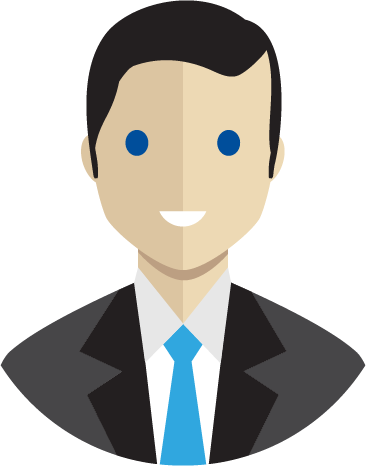
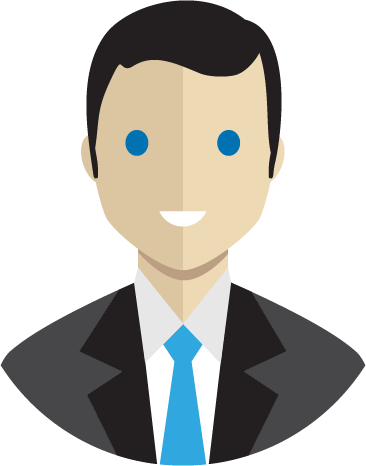
changed resume images...

diff --git a/assets/scss/style.scss b/assets/scss/style.scss
@@ -195,51 +195,51 @@ body {
 
         h2 {
           color: #ffffff;
+          margin: 70px 0 20px 0;
         }
-        
+
         p {
           color: #ffffff;
           font-size: 1.1rem;
           font-weight: 200;
-          margin: 20px 40px;
-
-          &:first-of-type {
-            margin-top: 170px;
-          }
+          margin: 20px 0;
         }
       } // .bio
 
+      h2 {
+          color: #ffffff;
+          margin: 70px 0 20px 0;
+        }
+
       .resume-grid {
         display: grid;
-        grid-template-columns: repeat(auto-fill, minmax(300px, 1fr));
-        grid-auto-rows: minmax(300px, auto);
+        // grid-template-columns: repeat(auto-fill, minmax(300px, 1fr));
+        // grid-auto-rows: minmax(300px, auto);
+        grid-template-columns: repeat(12, 1fr);
         grid-gap: 20px;
-        align-items: stretch;
+        // align-items: stretch;
 
         .fancy {
-          width: 200px;
-          height: 200px;
-          background-color: #ffffff;
-          position: relative;
-          border-radius: 50%;
+          grid-column: span 6;
 
           .toon {
-            width: 100%l
+            width: 100%;
           }
 
           a {
             color: #ffffff;
             text-decoration: none;
+            transition: 300ms ease all;
 
             &:hover {
               color: #3f90ce;
+              transition: 300ms ease all;
             }
           }
         }
 
         .no-fancy {
-          width: 200px;
-          height: 200px;
+          grid-column: span 6;
 
           p {
             color: #ffffff;
@@ -248,12 +248,19 @@ body {
             margin: 20px 40px;
           }
 
+          .toon {
+            width: 100%;
+            padding-top: 20px;
+          }
+
           a {
             color: #ffffff;
             text-decoration: none;
+            transition: 300ms ease all;
 
             &:hover {
               color: #3f90ce;
+              transition: 300ms ease all;
             }
           }
         }
@@ -430,6 +437,25 @@ body {
 .tc-image-caption2 .link-wrap a:hover {background-color: rgba(255,255,255,0.8);color: #444;}
 
 
+@media ( max-width: 520px ) {
+
+  .container {
+    .main {
+      .resume-grid {
+
+        .fancy {
+          grid-column: span 12;
+        }
+
+        .no-fancy {
+          grid-column: span 12;
+        }
+      }
+    }
+  }
+}
+
+
 
 @media ( max-width: 1135px ) {
 
@@ -456,11 +482,6 @@ body {
           font-weight: bolder;
           text-decoration: none;
           flex: auto;
-
-          &:hover {
-            color: #3f90ce;
-            cursor: pointer;
-          }
         }
 
         ul {
@@ -480,9 +501,11 @@ body {
               text-decoration: none;
               font-weight: bolder;
               font-size: 1.27rem;
+              transition: 300ms ease all;
 
               &:hover {
                 color: #3f90ce;
+                transition: 300ms ease all;
               }
             }
           }

diff --git a/assets/css/style.css b/assets/css/style.css
@@ -179,43 +179,40 @@ body .container .main .contact-button:hover {
 }
 body .container .main .bio h2 {
   color: #ffffff;
+  margin: 70px 0 20px 0;
 }
 body .container .main .bio p {
   color: #ffffff;
   font-size: 1.1rem;
   font-weight: 200;
-  margin: 20px 40px;
+  margin: 20px 0;
 }
-body .container .main .bio p:first-of-type {
-  margin-top: 170px;
+body .container .main h2 {
+  color: #ffffff;
+  margin: 70px 0 20px 0;
 }
 body .container .main .resume-grid {
   display: grid;
-  grid-template-columns: repeat(auto-fill, minmax(300px, 1fr));
-  grid-auto-rows: minmax(300px, auto);
+  grid-template-columns: repeat(12, 1fr);
   grid-gap: 20px;
-  align-items: stretch;
 }
 body .container .main .resume-grid .fancy {
-  width: 200px;
-  height: 200px;
-  background-color: #ffffff;
-  position: relative;
-  border-radius: 50%;
+  grid-column: span 6;
 }
 body .container .main .resume-grid .fancy .toon {
-  width: 100% l;
+  width: 100%;
 }
 body .container .main .resume-grid .fancy a {
   color: #ffffff;
   text-decoration: none;
+  transition: 300ms ease all;
 }
 body .container .main .resume-grid .fancy a:hover {
   color: #3f90ce;
+  transition: 300ms ease all;
 }
 body .container .main .resume-grid .no-fancy {
-  width: 200px;
-  height: 200px;
+  grid-column: span 6;
 }
 body .container .main .resume-grid .no-fancy p {
   color: #ffffff;
@@ -223,12 +220,18 @@ body .container .main .resume-grid .no-fancy p {
   font-weight: 200;
   margin: 20px 40px;
 }
+body .container .main .resume-grid .no-fancy .toon {
+  width: 100%;
+  padding-top: 20px;
+}
 body .container .main .resume-grid .no-fancy a {
   color: #ffffff;
   text-decoration: none;
+  transition: 300ms ease all;
 }
 body .container .main .resume-grid .no-fancy a:hover {
   color: #3f90ce;
+  transition: 300ms ease all;
 }
 body .container .main .contact {
   margin-top: 700px;
@@ -454,6 +457,14 @@ body .tc-image-caption2 .link-wrap a:hover {
   background-color: rgba(255, 255, 255, 0.8);
   color: #444;
 }
+@media (max-width: 520px) {
+  body .container .main .resume-grid .fancy {
+    grid-column: span 12;
+  }
+  body .container .main .resume-grid .no-fancy {
+    grid-column: span 12;
+  }
+}
 @media (max-width: 1135px) {
   body .container header {
     display: block;
@@ -477,10 +488,6 @@ body .tc-image-caption2 .link-wrap a:hover {
     text-decoration: none;
     flex: auto;
   }
-  body .container header nav .logo:hover {
-    color: #3f90ce;
-    cursor: pointer;
-  }
   body .container header nav ul {
     margin: 0;
     padding: 0;
@@ -497,9 +504,11 @@ body .tc-image-caption2 .link-wrap a:hover {
     text-decoration: none;
     font-weight: bolder;
     font-size: 1.27rem;
+    transition: 300ms ease all;
   }
   body .container header nav ul li a:hover, body .container header nav ul li a:visited:hover {
     color: #3f90ce;
+    transition: 300ms ease all;
   }
   body .container .res-button {
     display: none;

diff --git a/index.html b/index.html
@@ -17,7 +17,7 @@
       <div class="panel right"></div>
       <header>
         <nav>
-          <a href="http://github.com/brishaw" class="logo">Brian Shaw</a>
+          <span class="logo">Brian Shaw</span>
           <ul>
             <li><a href="#resume">Resume</a></li>
             <li><a href="#contact">Contact</a></li>
@@ -57,18 +57,18 @@
         
         <section class="bio">
           <h2>Bio</h2>
-          <!-- <p>Lorem ipsum dolor sit amet, consectetur adipisicing elit. Quisquam accusamus ipsa numquam adipisci, voluptate
-            veritatis expedita eius commodi! Distinctio pariatur sed ducimus velit ratione! Quaerat eum ipsum eveniet sit quia.
-            Lorem ipsum dolor sit amet consectetur, adipisicing elit. Nam accusamus est quas nihil odio architecto quidem
-            perspiciatis ducimus temporibus expedita veritatis aperiam fugiat ad quos, necessitatibus sed natus nostrum sequi!</p> -->
+          <p>As a Full Stack Web Developer I am able to build sophisticated websites with full database backends all the way from mockup to rollout. Adept at working with diverse teams to implement projects.
+          I am an experienced professional with expert knowledge in development and design. Using cutting edge technology, I am creative, resourceful and exercise extreme attention to detail. I enjoy a fast-paced and collaborative project environment and possess the abilities to problem-solve by brain-storming, flow charts and story-boarding. I am highly proficient in HTML/CSS, Javascript, jQuery, MERN, MySQL and PHP as well as numerous Adobe CC programs. I am an excellent communicator with strengths in both soft-skills and interpersonal skills.</p>
         </section>
 
-        <section id="resume" class="resume-grid">
+        <h2 id="resume">Resume</h2>
+        <section class="resume-grid">
           <div class="fancy">
             <img class="toon" src="assets/images/headOne.png" alt="Fancy Resume">
-            <h3><a href="https://drive.google.com/open?id=1ofMH6r-lQZC7cN97Ey-QxaXHUnFY4LD_">Download PDF</a></h3>
+            <h3><a href="https://drive.google.com/open?id=1ofMH6r-lQZC7cN97Ey-QxaXHUnFY4LD_">Download PDF (Fancy!)</a></h3>
           </div>
           <div class="no-fancy">
+            <img class="toon" src="assets/images/headTwo.png" alt="Fancy Resume">
             <h3><a href="https://drive.google.com/open?id=1QDFmg0ydOoWW2GnBnW18jMSmlf73nQGF">Download Plain-Text (Bot Resume)</a></h3>
             <!-- <p>Lorem ipsum dolor sit amet consectetur adipisicing elit. Amet nihil modi, repudiandae veniam, quaerat totam vero
               fuga error cumque quia reiciendis doloribus hic consequuntur? Similique sint consequuntur exercitationem! Odit,
